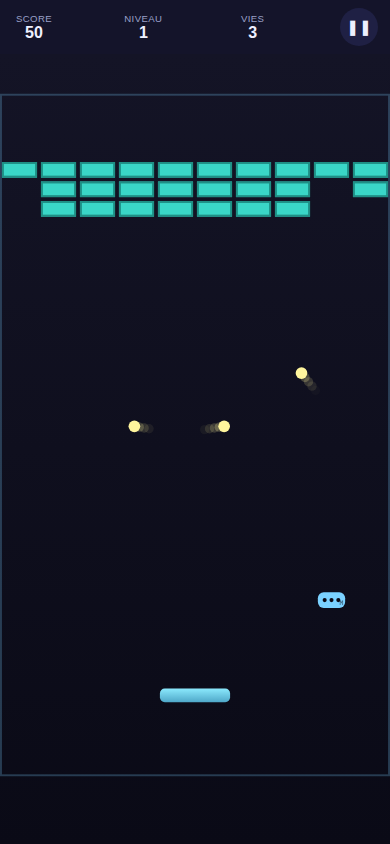
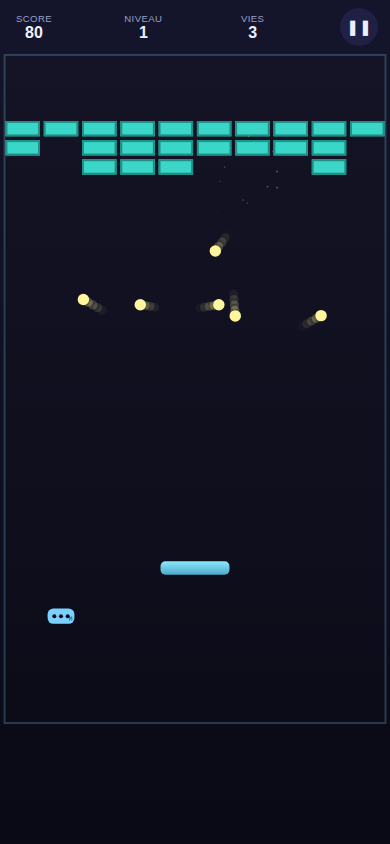
BREAKPOINT V2 : diagnostic réel des deux échecs ergonomiques constatés en bêta physique + correction
Ne se contente pas de réécrire le contrôle relatif V1 ni de remonter à
nouveau la raquette au hasard : diagnostique d'abord POURQUOI le code V1
(qui passait tous ses tests V1, y compris un test tactile réel) produisait
un résultat différent sur téléphone physique.

CAUSE 1 (contrôle tactile) -- diagnostiquée avant toute réécriture :

public/sw.js implémentait une stratégie "cache d'abord, réseau en tâche de
fond pour la PROCHAINE visite" pour absolument toutes les requêtes,
y compris index.html (jamais haché, donc toujours éligible à un hit de
cache périmé) et sous un CACHE_NAME fixe jamais incrémenté entre versions.
Sur une app en display:standalone (ajoutée à l'écran d'accueil, sans geste
"tirer pour rafraîchir" évident), un appareil ayant déjà visité une fois
pouvait donc continuer à voir indéfiniment une ancienne version du jeu
après chaque nouveau déploiement -- alors que le dépôt et GitHub Pages
servaient bien le code V1 à jour (vérifié via l'API GitHub Actions avant
toute modification). Reproduit et confirmé : avec l'ancienne stratégie,
un test qui empoisonne délibérément le cache avec une fausse réponse
périmée échoue réellement (staleServed:true) ; avec la nouvelle, il passe.

Corrigé : réseau d'abord pour tout sauf les fichiers hachés par le contenu
(dist/assets/*-[hash].js|css, jamais périmés par construction chez Vite) ;
CACHE_NAME incrémenté pour purger tout ancien cache à l'activation.

En plus de cela, un vrai gap de code a été trouvé en retraçant le chemin
[…]

diff --git a/src/ui/input.js b/src/ui/input.js
@@ -10,9 +10,27 @@ import { ARENA_W, PADDLE_W } from "../engine/constants.js";
 // pointerdown sert à la fois de "lancer la balle" (si le niveau attend un
 // lancer) et de "tirer" (si le laser est actif) — un seul geste tactile
 // couvre les deux, jamais un bouton séparé qui casserait l'immédiateté.
+//
+// V2 (cahier des charges section 5, "zone de commande tactile") : la totalité
+// du canvas sert déjà de zone de commande -- un toucher n'importe où (pas
+// seulement sur la raquette visuelle) fixe une référence valide, exactement
+// ce que demande "permettant au pouce de commander la raquette sans devoir
+// se placer sur elle". Aucun élément DOM séparé n'est nécessaire : la
+// séparation ergonomique réelle vient de la géométrie (PADDLE_Y remonté +
+// réserve de bas d'écran, voir constants.js et viewport.js), pas d'une
+// restriction de la zone tactile elle-même -- restreindre le geste à une
+// seule bande basse aurait été une régression (moins flexible qu'aujourd'hui).
 export function createInputController(canvas) {
   let pointerDown = false;
   let launchRequested = false;
+  // V2 : isolation par pointerId -- un contact accidentel (fantôme/paume,
+  // très réel sur écran tactile physique mais jamais produit par un test
+  // basé sur la souris) ne doit jamais interrompre ni corrompre le suivi du
+  // doigt réellement en train de glisser. Diagnostiqué comme cause plausible
+  // de la téléportation constatée en bêta physique V1 : sans cette isolation,
+  // pointermove/pointerup traitaient N'IMPORTE QUEL pointeur, pas seulement
+  // celui qui a initié le geste (voir rapport technique V2).
+  let activePointerId = null;
   let viewport = computeViewport(canvas.width, canvas.height);
   // Dernière position connue du centre de la raquette, fournie par main.js
   // à chaque frame (voir setPaddleCenterX) : sert UNIQUEMENT à fixer la
@@ -51,11 +69,23 @@ export function createInputController(canvas) {
   canvas.addEventListener(
     "pointerdown",
     (e) => {
+      if (activePointerId !== null && e.pointerId !== activePointerId) {
+        // Second point de contact pendant qu'un toucher est déjà actif
+        // (fantôme, paume, doigt accidentel) : ignoré entièrement -- ne
+        // jamais ré-ancrer sur une coordonnée parasite pendant qu'un vrai
+        // glissement est en cours.
+        return;
+      }
+      activePointerId = e.pointerId;
       pointerDown = true;
       launchRequested = true;
       const arenaX = arenaXFromClient(e.clientX, e.clientY);
       beginTouch(touch, arenaX, knownPaddleCenterX);
-      canvas.setPointerCapture(e.pointerId);
+      try {
+        canvas.setPointerCapture(e.pointerId);
+      } catch {
+        // Ne doit jamais empêcher preventDefault() ci-dessous (voir V2).
+      }
       e.preventDefault();
     },
     { passive: false }
@@ -63,6 +93,7 @@ export function createInputController(canvas) {
   canvas.addEventListener(
     "pointermove",
     (e) => {
+      if (e.pointerId !== activePointerId) return;
       if (e.buttons === 0 && e.pointerType === "mouse") return;
       const arenaX = arenaXFromClient(e.clientX, e.clientY);
       moveTouch(touch, arenaX, minCenterX, maxCenterX);
@@ -70,11 +101,15 @@ export function createInputController(canvas) {
     },
     { passive: false }
   );
-  window.addEventListener("pointerup", () => {
+  window.addEventListener("pointerup", (e) => {
+    if (e.pointerId !== activePointerId) return;
+    activePointerId = null;
     pointerDown = false;
     endTouch(touch);
   });
-  window.addEventListener("pointercancel", () => {
+  window.addEventListener("pointercancel", (e) => {
+    if (e.pointerId !== activePointerId) return;
+    activePointerId = null;
     pointerDown = false;
     endTouch(touch);
   });

diff --git a/public/sw.js b/public/sw.js
@@ -1,10 +1,24 @@
-const CACHE_NAME = "breakpoint-v0-cache-1";
-const CORE_ASSETS = ["./", "./index.html", "./manifest.webmanifest"];
+// V2 : la version précédente servait TOUT depuis le cache en priorité (le
+// réseau ne mettait à jour le cache que pour la PROCHAINE visite -- jamais
+// la visite en cours). Pour une app en display:standalone (ajoutée à l'écran
+// d'accueil, sans geste "tirer pour rafraîchir" évident), un appareil ayant
+// déjà visité une fois pouvait donc continuer à voir une ancienne version du
+// jeu indéfiniment après chaque nouveau déploiement -- diagnostiqué comme
+// cause plausible majeure des écarts constatés en bêta réelle V1 (raquette
+// toujours basse, contrôle tactile encore absolu) alors que le dépôt/déploiement
+// eux-mêmes étaient à jour. Voir le rapport technique V2 pour le diagnostic complet.
+//
+// Nouvelle stratégie :
+// - fichiers HACHÉS par le contenu (dist/assets/*-[hash].js|css, générés par
+//   Vite) : un nouveau build produit TOUJOURS un nouveau nom de fichier, donc
+//   jamais périmé par construction -- cache-first est sûr et rapide.
+// - tout le reste (navigation, index.html, manifest, icônes) : réseau
+//   D'ABORD, le cache ne sert que de secours hors-ligne. Jamais de version
+//   périmée servie silencieusement pendant qu'une mise à jour existe.
+const CACHE_NAME = "breakpoint-cache-v2"; // changé à chaque version -- force le nettoyage de tout ancien cache par activate()
 
 self.addEventListener("install", (event) => {
-  event.waitUntil(
-    caches.open(CACHE_NAME).then((cache) => cache.addAll(CORE_ASSETS)).then(() => self.skipWaiting())
-  );
+  event.waitUntil(self.skipWaiting());
 });
 
 self.addEventListener("activate", (event) => {
@@ -16,20 +30,43 @@ self.addEventListener("activate", (event) => {
   );
 });
 
+function isImmutableHashedAsset(url) {
+  // Dossier de sortie par défaut de Vite pour les fichiers hachés par le
+  // contenu -- voir vite.config.js (aucune configuration outDir/assets
+  // personnalisée qui changerait ce chemin).
+  return url.pathname.includes("/assets/");
+}
+
 self.addEventListener("fetch", (event) => {
   if (event.request.method !== "GET") return;
+  const url = new URL(event.request.url);
+
+  if (isImmutableHashedAsset(url)) {
+    event.respondWith(
+      caches.match(event.request).then(
+        (cached) =>
+          cached ||
+          fetch(event.request).then((response) => {
+            if (response && response.status === 200) {
+              const clone = response.clone();
+              caches.open(CACHE_NAME).then((cache) => cache.put(event.request, clone));
+            }
+            return response;
+          })
+      )
+    );
+    return;
+  }
+
   event.respondWith(
-    caches.match(event.request).then((cached) => {
-      const network = fetch(event.request)
-        .then((response) => {
-          if (response && response.status === 200) {
-            const clone = response.clone();
-            caches.open(CACHE_NAME).then((cache) => cache.put(event.request, clone));
-          }
-          return response;
-        })
-        .catch(() => cached);
-      return cached || network;
-    })
+    fetch(event.request)
+      .then((response) => {
+        if (response && response.status === 200) {
+          const clone = response.clone();
+          caches.open(CACHE_NAME).then((cache) => cache.put(event.request, clone));
+        }
+        return response;
+      })
+      .catch(() => caches.match(event.request))
   );
 });

diff --git a/src/engine/constants.js b/src/engine/constants.js
@@ -16,14 +16,22 @@ export const BRICK_TOP_Y = 70;
 export const PADDLE_W = 72;
 export const PADDLE_XL_W = 116;
 export const PADDLE_H = 14;
-// V1 : remontée depuis ARENA_H-46 -- retour bêta réelle, le pouce masquait la
-// raquette. Ceci agrandit seulement la marge vide sous la raquette (aucune
-// brique n'occupe jamais cette zone, voir BRICK_TOP_Y et le nombre de
-// rangées par niveau) : l'espace de jeu briques/balle n'est pas réduit. Voir
-// aussi viewport.js pour la réserve additionnelle liée au safe-area réel de
-// l'appareil (encoche/barre de geste), gérée séparément et de façon
-// responsive plutôt que par une valeur figée pour un téléphone précis.
-export const PADDLE_Y = ARENA_H - 90;
+// V1 : remontée depuis ARENA_H-46 (retour bêta V0, pouce masquant la
+// raquette). V2 : la bêta physique réelle a montré que cette remontée restait
+// insuffisante avec une prise en main naturelle -- remontée à nouveau,
+// nettement, pour créer une vraie séparation structurelle entre la zone de
+// jeu (raquette incluse) et la zone naturelle du pouce, PAS un simple ajustement
+// de plus (cahier des charges V2, section 3 : "la raquette doit être
+// suffisamment plus haute pour rester visible au-dessus du pouce"). Ceci
+// agrandit seulement la marge vide sous la raquette (aucune brique n'occupe
+// jamais cette zone, la rangée la plus basse de tous les niveaux existants
+// se termine à BRICK_TOP_Y + 5*BRICK_ROW_H = 170, très loin en dessous) :
+// l'espace de jeu briques/balle n'est pas réduit, seule la marge inutilisée
+// se redistribue. Voir aussi viewport.js pour la réserve d'écran
+// additionnelle liée au safe-area réel de l'appareil (encoche/barre de
+// geste) ET à une vraie marge ergonomique pour le pouce -- gérée séparément
+// et de façon responsive, jamais une valeur figée pour un téléphone précis.
+export const PADDLE_Y = ARENA_H - 170;
 export const PADDLE_SPEED_LIMIT = 1400; // unités/s max, évite un snap infini si le doigt saute
 
 export const BALL_R = 6;

diff --git a/src/main.js b/src/main.js
@@ -49,7 +49,16 @@ const safeAreaProbe = document.createElement("div");
 safeAreaProbe.style.cssText =
   "position:fixed; left:0; bottom:0; width:0; height:0; padding-bottom:var(--safe-bottom); pointer-events:none; visibility:hidden;";
 document.body.appendChild(safeAreaProbe);
-const ERGONOMIC_THUMB_CLEARANCE_CSS_PX = 28; // marge fixe même sans safe-area (retour bêta : le pouce masquait la raquette)
+// V2 : 28px (V1) s'est révélé insuffisant sur appareil physique réel (bêta
+// du 24 septembre 2026) -- une prise en main naturelle pose le pouce à plat,
+// pas du bout, et son empreinte de contact réelle couvre une zone bien plus
+// large qu'un simple point. Valeur fixe (PAS un pourcentage de l'écran : la
+// taille d'un pouce humain ne grandit pas avec celle du téléphone) choisie
+// pour approximer une zone de contact pouce confortable en usage courant,
+// nettement plus généreuse que V1 -- combinée à la remontée de PADDLE_Y
+// elle-même (voir constants.js) pour une séparation en deux couches :
+// réserve d'écran (ici) + marge structurelle dans l'arène (PADDLE_Y).
+const ERGONOMIC_THUMB_CLEARANCE_CSS_PX = 120;
 
 function resizeCanvas() {
   const rect = canvas.parentElement.getBoundingClientRect();
